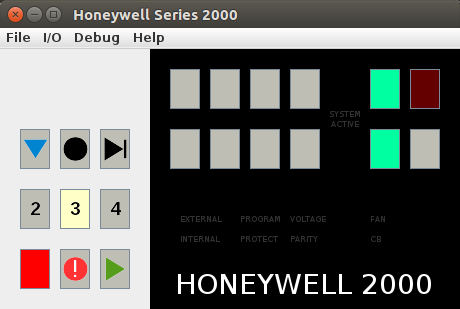
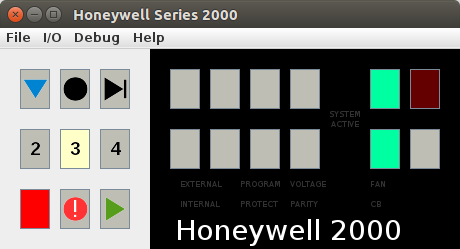
Adjust 220-3 control panel based on new photos

diff --git a/hw2000/www/hw2000.html b/hw2000/www/hw2000.html
@@ -36,10 +36,11 @@ support more than 19 address bits - particularly address modifiers in 4-characte
 addressing mode).
 <P>
 <IMG ALIGN=RIGHT SRC="hw2000_220-3.png">
-Documentation states that a Type 220 console is required on all Series 2000 Systems,
-which likely means that a full-feature front panel never existed. If the java program
-is started with a "220-3" on the commandline, then a minimal control panel will be used -
-similar to the one provided on the 220-3 console.
+Documentation states that a Type 220-3/6/8 console is required on all Series 2000 Systems,
+which likely means that a full-feature front panel shown above never existed.
+If the java program is started with a "220-3" on the commandline,
+then a minimal control panel will be used -
+similar to the one provided on the 220-3 console (shown right).
 <P>
 Here is a short video of it running MACHIN, the Pi computation program (under monitor).
 <A HREF="https://youtu.be/-bhXYxyJZQE">YouTube Video</A>

diff --git a/hw2000/HW2000FrontPanel.java b/hw2000/HW2000FrontPanel.java
@@ -729,7 +729,7 @@ public class HW2000FrontPanel extends JFrame
 		sense = new LightedButton[8];
 
 		JPanel pn = new JPanel();
-		pn.setPreferredSize(new Dimension(150,80));
+		pn.setPreferredSize(new Dimension(150,20));
 		pn.setOpaque(true);
 		gc.gridx = 0;
 		gc.gridy = 0;
@@ -1155,94 +1155,102 @@ public class HW2000FrontPanel extends JFrame
 		rpn.add(pn);
 
 		pn = new JPanel();
-		pn.setPreferredSize(new Dimension(310,40));
+		pn.setPreferredSize(new Dimension(310,10));
 		pn.setOpaque(false);
 		gc.gridx = 0;
 		gc.gridy = 4;
 		gc.gridwidth = gbx;
-		gc.gridheight = 2;
+		gb.setConstraints(pn, gc);
+		rpn.add(pn);
+
+		pn = new JPanel();
+		pn.setPreferredSize(new Dimension(310,10));
+		pn.setOpaque(false);
+		gc.gridx = 0;
+		gc.gridy = 6;
+		gc.gridwidth = gbx;
 		gb.setConstraints(pn, gc);
 		rpn.add(pn);
 
 		gc.gridheight = 1;
-		gc.gridy = 6;
+		gc.gridy = 5;
 		gc.gridwidth = 3;
 		gc.gridx = 1;
 		eintr = new JLabel("EXTERNAL");
 		eintr.setFont(smallFont);
 		eintr.setForeground(indDark);
 		eintr.setOpaque(false);
-		eintr.setPreferredSize(new Dimension(50, 20));
-		gc.anchor = GridBagConstraints.NORTH;
+		eintr.setPreferredSize(new Dimension(50, 10));
+		gc.anchor = GridBagConstraints.SOUTH;
 		gb.setConstraints(eintr, gc);
 		rpn.add(eintr);
 		iintr = new JLabel("INTERNAL");
 		iintr.setFont(smallFont);
 		iintr.setForeground(indDark);
 		iintr.setOpaque(false);
-		iintr.setPreferredSize(new Dimension(50, 20));
+		iintr.setPreferredSize(new Dimension(50, 10));
 		gc.gridy = 7;
 		gc.anchor = GridBagConstraints.SOUTH;
 		gb.setConstraints(iintr, gc);
 		rpn.add(iintr);
 
-		gc.gridy = 6;
+		gc.gridy = 5;
 		gc.gridx = 4;
 		pgm = new JLabel("PROGRAM");
 		pgm.setFont(smallFont);
 		pgm.setForeground(indDark);
 		pgm.setOpaque(false);
-		pgm.setPreferredSize(new Dimension(50, 20));
-		gc.anchor = GridBagConstraints.NORTH;
+		pgm.setPreferredSize(new Dimension(50, 10));
+		gc.anchor = GridBagConstraints.SOUTH;
 		gb.setConstraints(pgm, gc);
 		rpn.add(pgm);
 		prot = new JLabel("PROTECT");
 		prot.setFont(smallFont);
 		prot.setForeground(indDark);
 		prot.setOpaque(false);
-		prot.setPreferredSize(new Dimension(50, 20));
+		prot.setPreferredSize(new Dimension(50, 10));
 		gc.gridy = 7;
 		gc.anchor = GridBagConstraints.SOUTH;
 		gb.setConstraints(prot, gc);
 		rpn.add(prot);
 
-		gc.gridy = 6;
+		gc.gridy = 5;
 		gc.gridx = 7;
 		gc.gridwidth = 2;
 		voltage = new JLabel("VOLTAGE");
 		voltage.setFont(smallFont);
 		voltage.setForeground(indDark);
 		voltage.setOpaque(false);
-		voltage.setPreferredSize(new Dimension(80, 20));
-		gc.anchor = GridBagConstraints.NORTH;
+		voltage.setPreferredSize(new Dimension(80, 10));
+		gc.anchor = GridBagConstraints.SOUTH;
 		gb.setConstraints(voltage, gc);
 		rpn.add(voltage);
 		parity = new JLabel("PARITY");
 		parity.setFont(smallFont);
 		parity.setForeground(indDark);
 		parity.setOpaque(false);
-		parity.setPreferredSize(new Dimension(80, 20));
+		parity.setPreferredSize(new Dimension(80, 10));
 		gc.gridy = 7;
 		gc.anchor = GridBagConstraints.SOUTH;
 		gb.setConstraints(parity, gc);
 		rpn.add(parity);
 
-		gc.gridy = 6;
+		gc.gridy = 5;
 		gc.gridx = 9;
 		gc.gridwidth = 2;
 		fan = new JLabel("FAN");
 		fan.setFont(smallFont);
 		fan.setForeground(indDark);
 		fan.setOpaque(false);
-		fan.setPreferredSize(new Dimension(40, 20));
-		gc.anchor = GridBagConstraints.NORTH;
+		fan.setPreferredSize(new Dimension(40, 10));
+		gc.anchor = GridBagConstraints.SOUTH;
 		gb.setConstraints(fan, gc);
 		rpn.add(fan);
 		cb = new JLabel("CB");
 		cb.setFont(smallFont);
 		cb.setForeground(indDark);
 		cb.setOpaque(false);
-		cb.setPreferredSize(new Dimension(40, 20));
+		cb.setPreferredSize(new Dimension(40, 10));
 		gc.gridy = 7;
 		gc.anchor = GridBagConstraints.SOUTH;
 		gb.setConstraints(cb, gc);
@@ -1250,15 +1258,16 @@ public class HW2000FrontPanel extends JFrame
 
 		gc.gridy = 8;
 		// fudge spacing, instead of more-complex paneling
-		JLabel lb = new JLabel("HONEYWELL 2000");
+		JLabel lb = new JLabel("Honeywell 2000");
 		lb.setFont(medFont);
 		lb.setOpaque(false);
 		lb.setForeground(Color.white);
-		lb.setPreferredSize(new Dimension(260,60));
+		lb.setPreferredSize(new Dimension(260,32));
 		pn = new JPanel();
-		pn.setPreferredSize(new Dimension(310, 60));
+		pn.setPreferredSize(new Dimension(310, 40));
 		pn.setOpaque(false);
 		pn.add(lb);
+		gc.anchor = GridBagConstraints.NORTH;
 		gc.gridx = 0;
 		gc.gridwidth = gbx;
 		gb.setConstraints(pn, gc);
